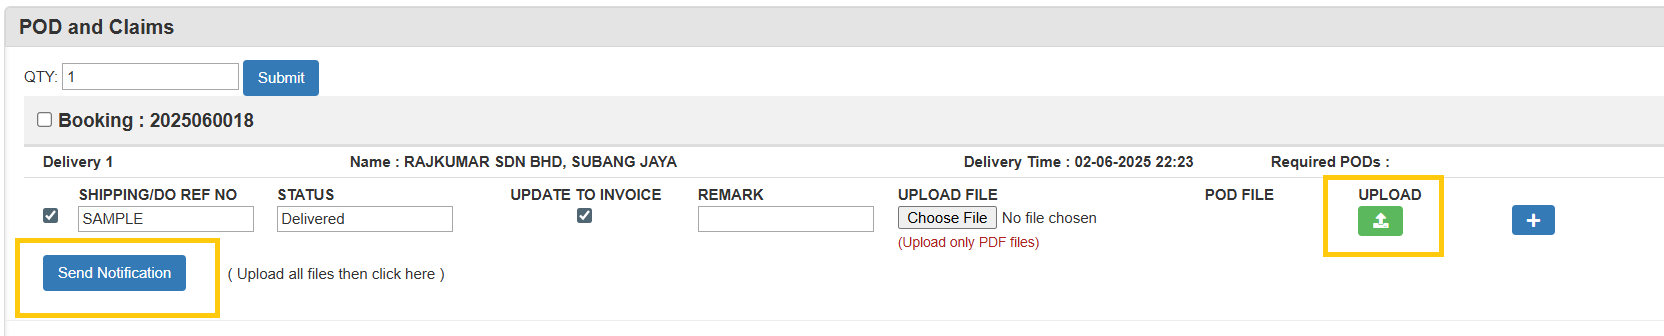
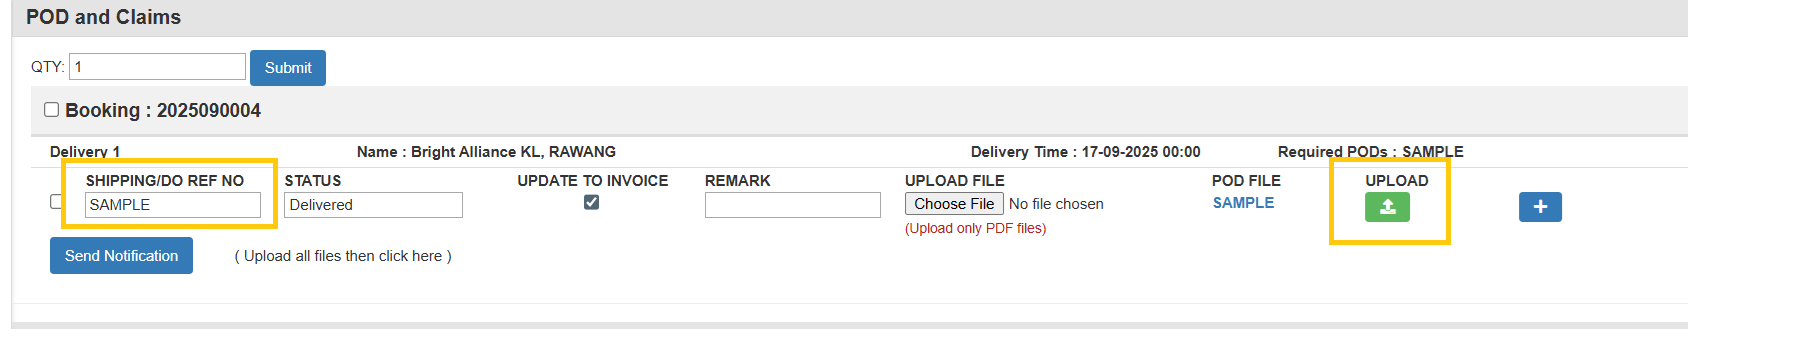
Updated DHL Email Ingestion content with DO

diff --git a/docs/Transportation Cockpit/dhl-email-ingestion.md b/docs/Transportation Cockpit/dhl-email-ingestion.md
@@ -7,12 +7,12 @@ This guide explains how to integrate DHL Email Ingestion.
 
 # Steps
 
-1. In the **Create Booking** form, select the required details such as **Customer**, **Product Type**, **Pickup**, **Delivery**, **Goods Description**, etc.  
+1. In the **Create Booking** form, select the required details such as **Customer**, **Product Type**, **Pickup**, **Delivery**, **Shipping/DO Ref No**, etc.  
         ![Booking Product Type](/img/DHL_product_type_booking.png)
 2. Once planning and delivery are completed, the process continues to the **POD and Claims** page.
 
         ![POD Send Mail](/img/DHL_pod_send_mail.png)
-3. Enter the required details and upload the file. After clicking **Send Notification**, the customer will receive an email with the specified subject format and the file attached.
+3. Enter the **Shipping/DO Ref No** and Status, then upload the file. Once you click **Send Notification**, the customer will receive an email with the specified subject format and the file attached.
 
         ![POD Mail](/img/DHL_pod_mail_sample.png)
     
